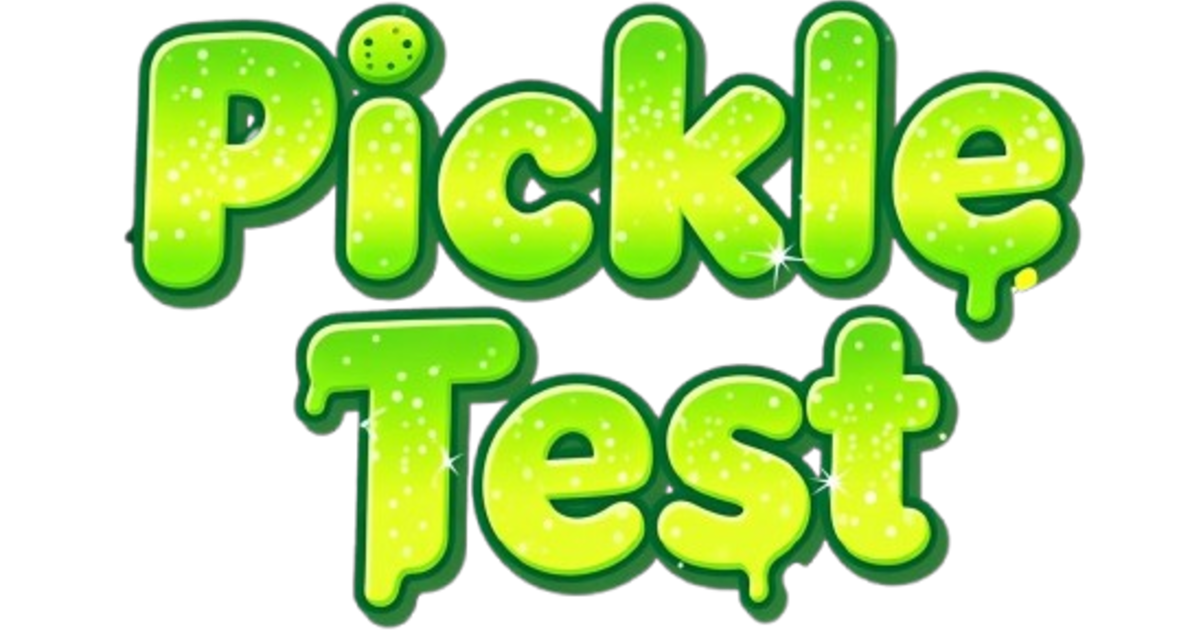
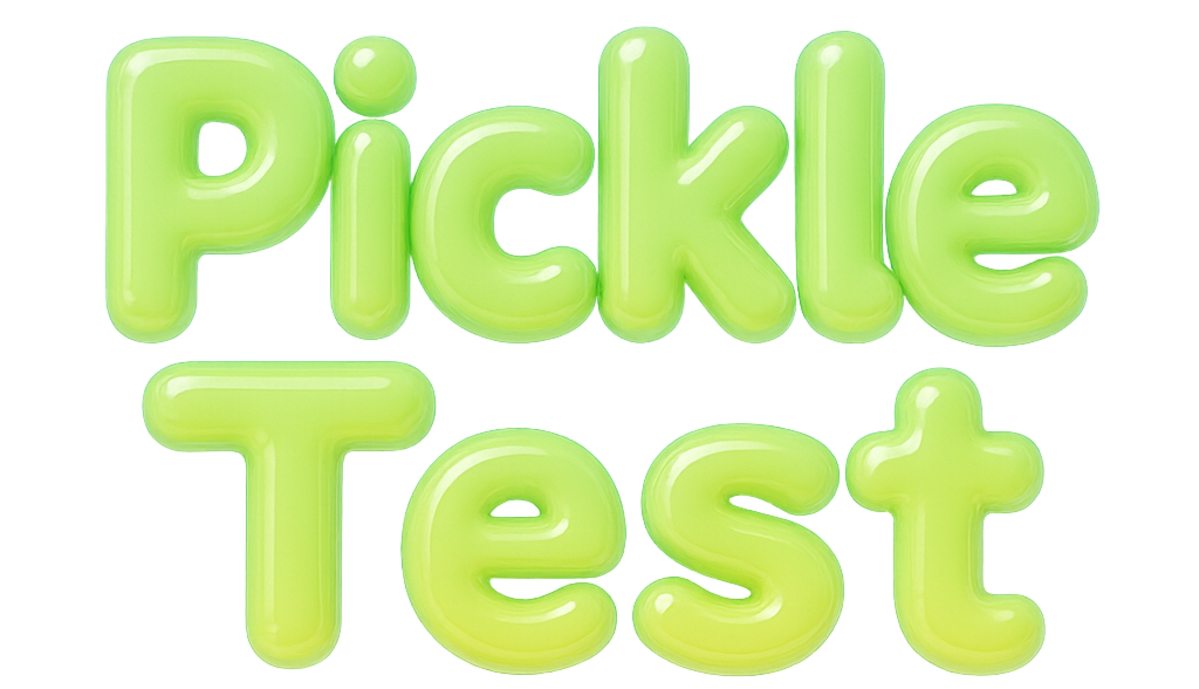
style: 로고 변경

diff --git a/src/app/FirstPage/page.module.css b/src/app/FirstPage/page.module.css
@@ -26,16 +26,11 @@
 }
 
 .image_center {
-  filter: blur(0.25px) drop-shadow(0 0 20px rgba(162, 248, 57, 0.3));
-  opacity: 0.82;
   z-index: 2;
   max-width: 340px;
   width: 80%;
   height: auto;
-  margin: 34px auto 70px auto;
-}
-.nightMode .image_center {
-  filter: blur(0.25px) drop-shadow(0 0 20px rgba(248, 57, 57, 0.3));
+  margin: 40px auto 70px auto;
 }
 
 /* --- 섹션 제목 설정 --- */
@@ -195,13 +190,12 @@
 .themeButton {
   display: flex;
   align-items: center;
+  /* 배경을 더 투명하고 밝게 변경 */
   background-color: rgba(255, 255, 255, 0.6);
-  backdrop-filter: blur(8px);
-  -webkit-backdrop-filter: blur(8px);
   padding: 8px 16px;
   border-radius: 30px;
   cursor: pointer;
-
+  /* 테두리를 살짝 주어 선명하게 */
   border: 1px solid rgba(255, 255, 255, 0.4);
   box-shadow: 0 4px 15px rgba(0, 0, 0, 0.05);
   transition: all 0.3s ease;
@@ -292,12 +286,11 @@
   z-index: 1;
   pointer-events: none;
   opacity: 0.15;
-  /* filter: drop-shadow(0 0 5px rgba(0, 0, 0, 0.1));  */
   filter: blur(2px) drop-shadow(0 0 10px rgba(0, 0, 0, 0.05));
 }
 
 .nightMode .floatingPickle {
-  filter: blur(3px) brightness(0.3) sepia(1) hue-rotate(-50deg) saturate(3);
+  filter: brightness(0.3) sepia(1) hue-rotate(-50deg) saturate(3);
   opacity: 0.1;
 }
 
